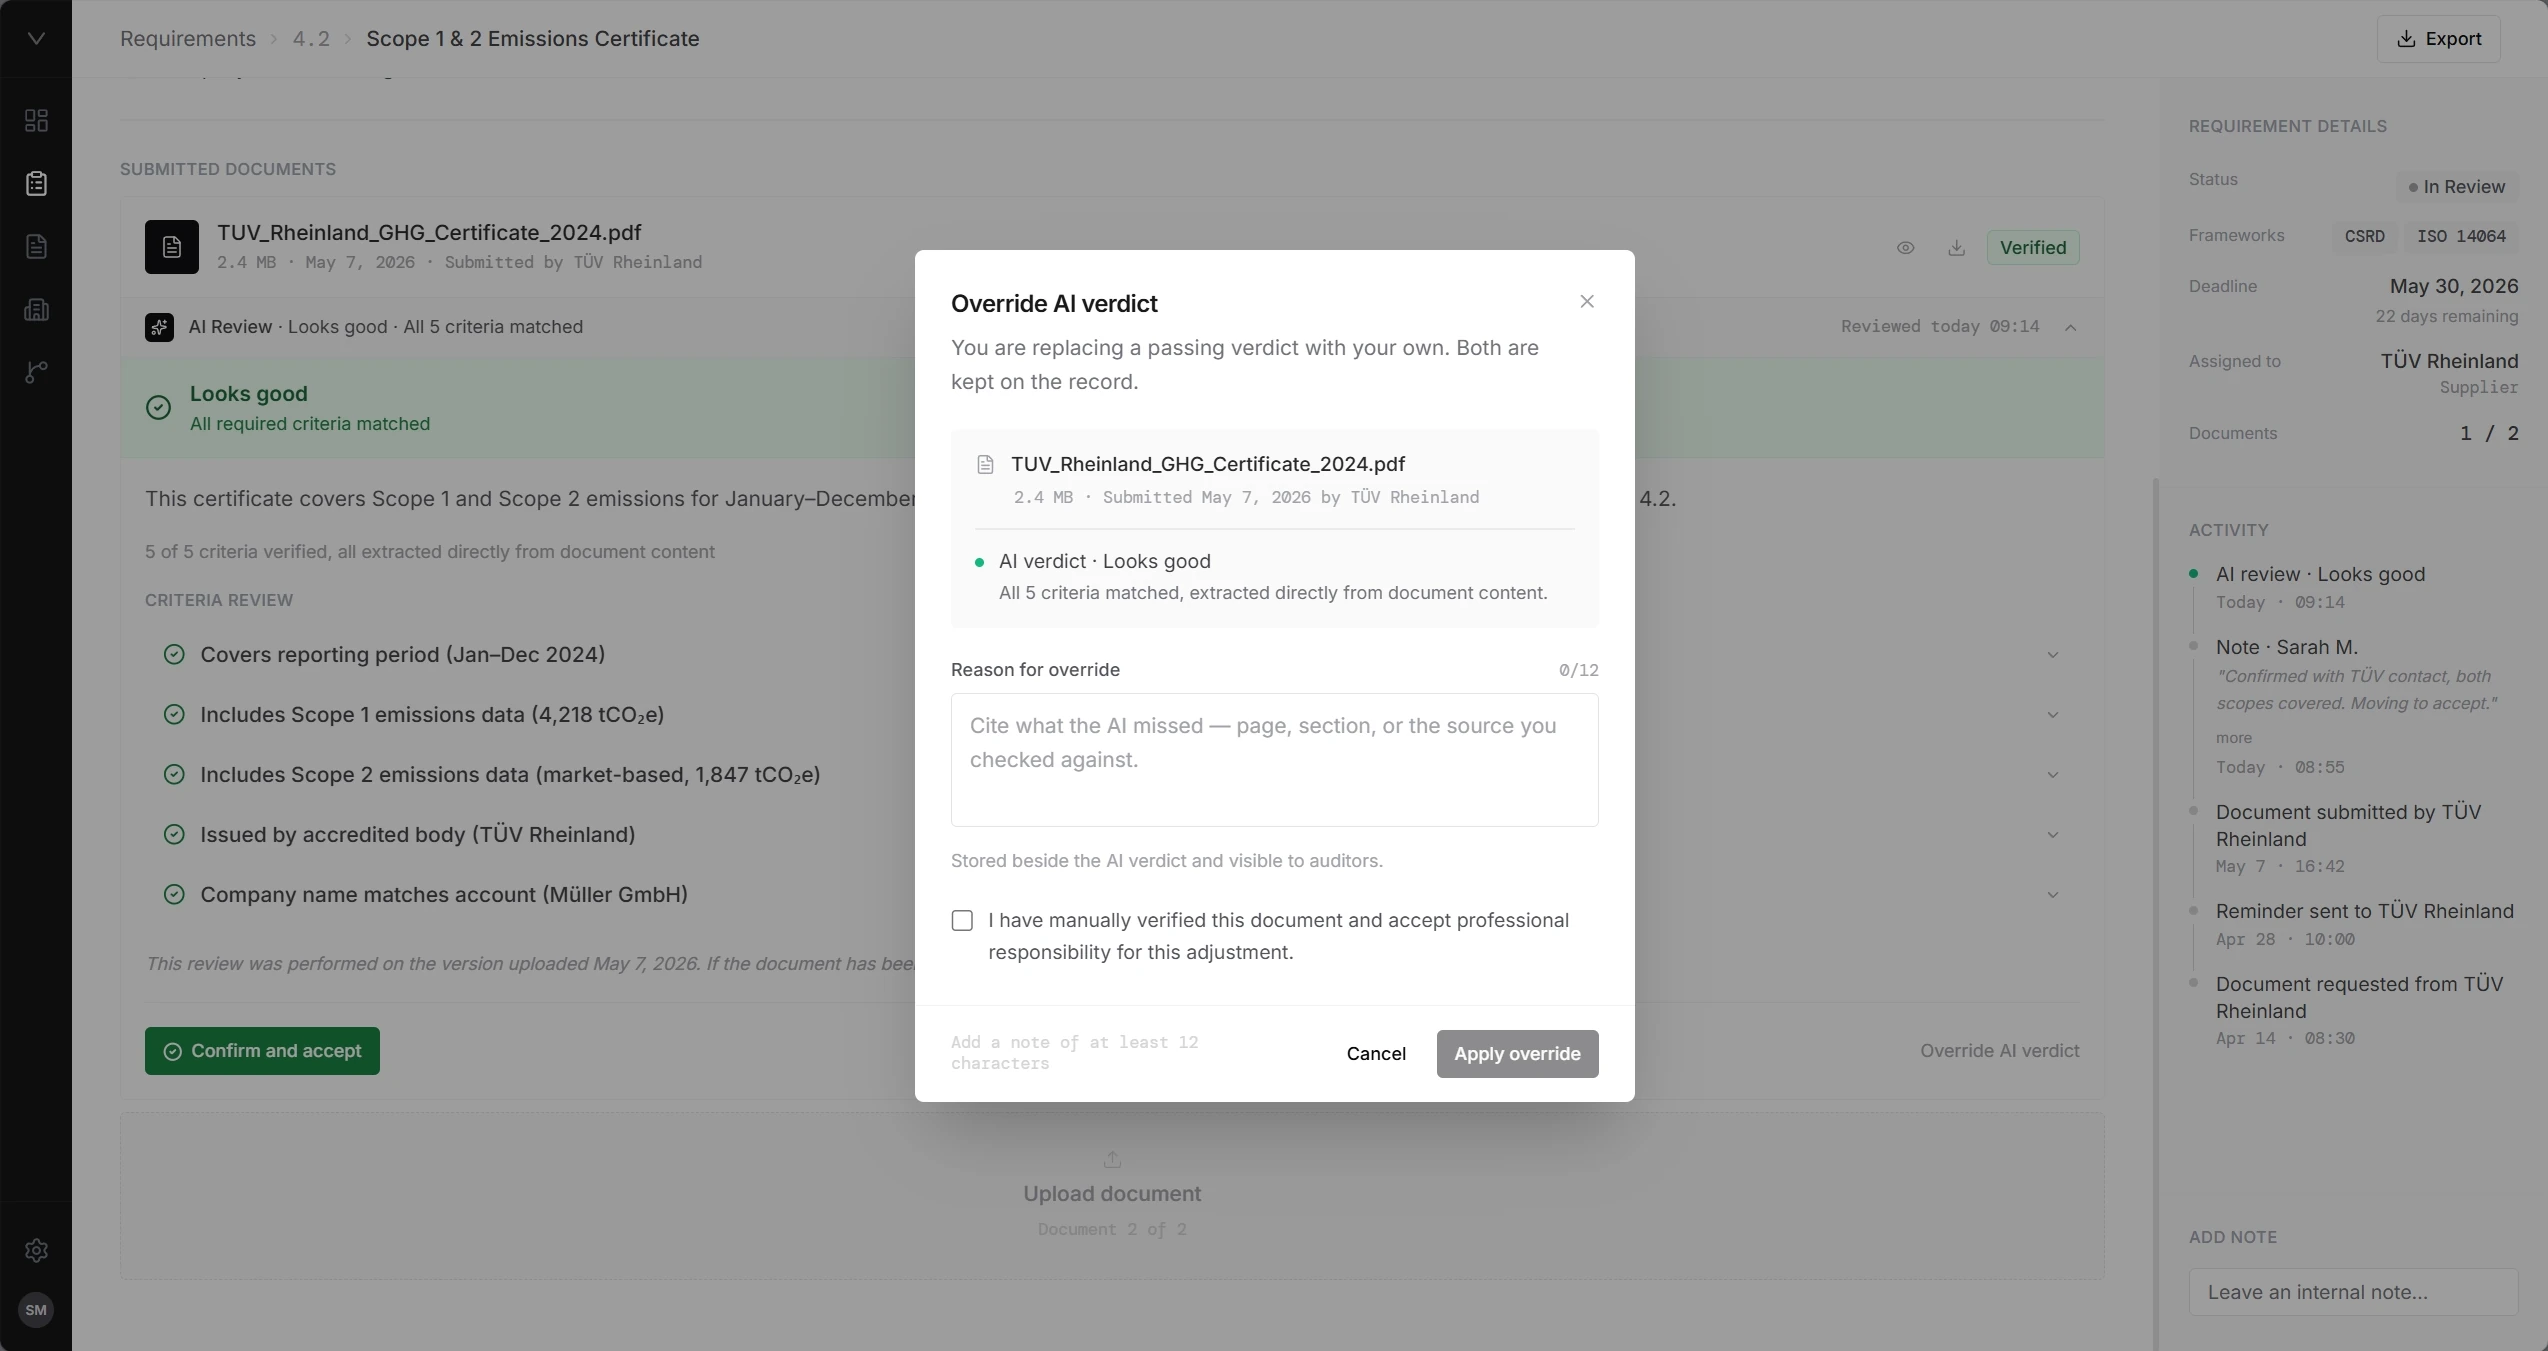
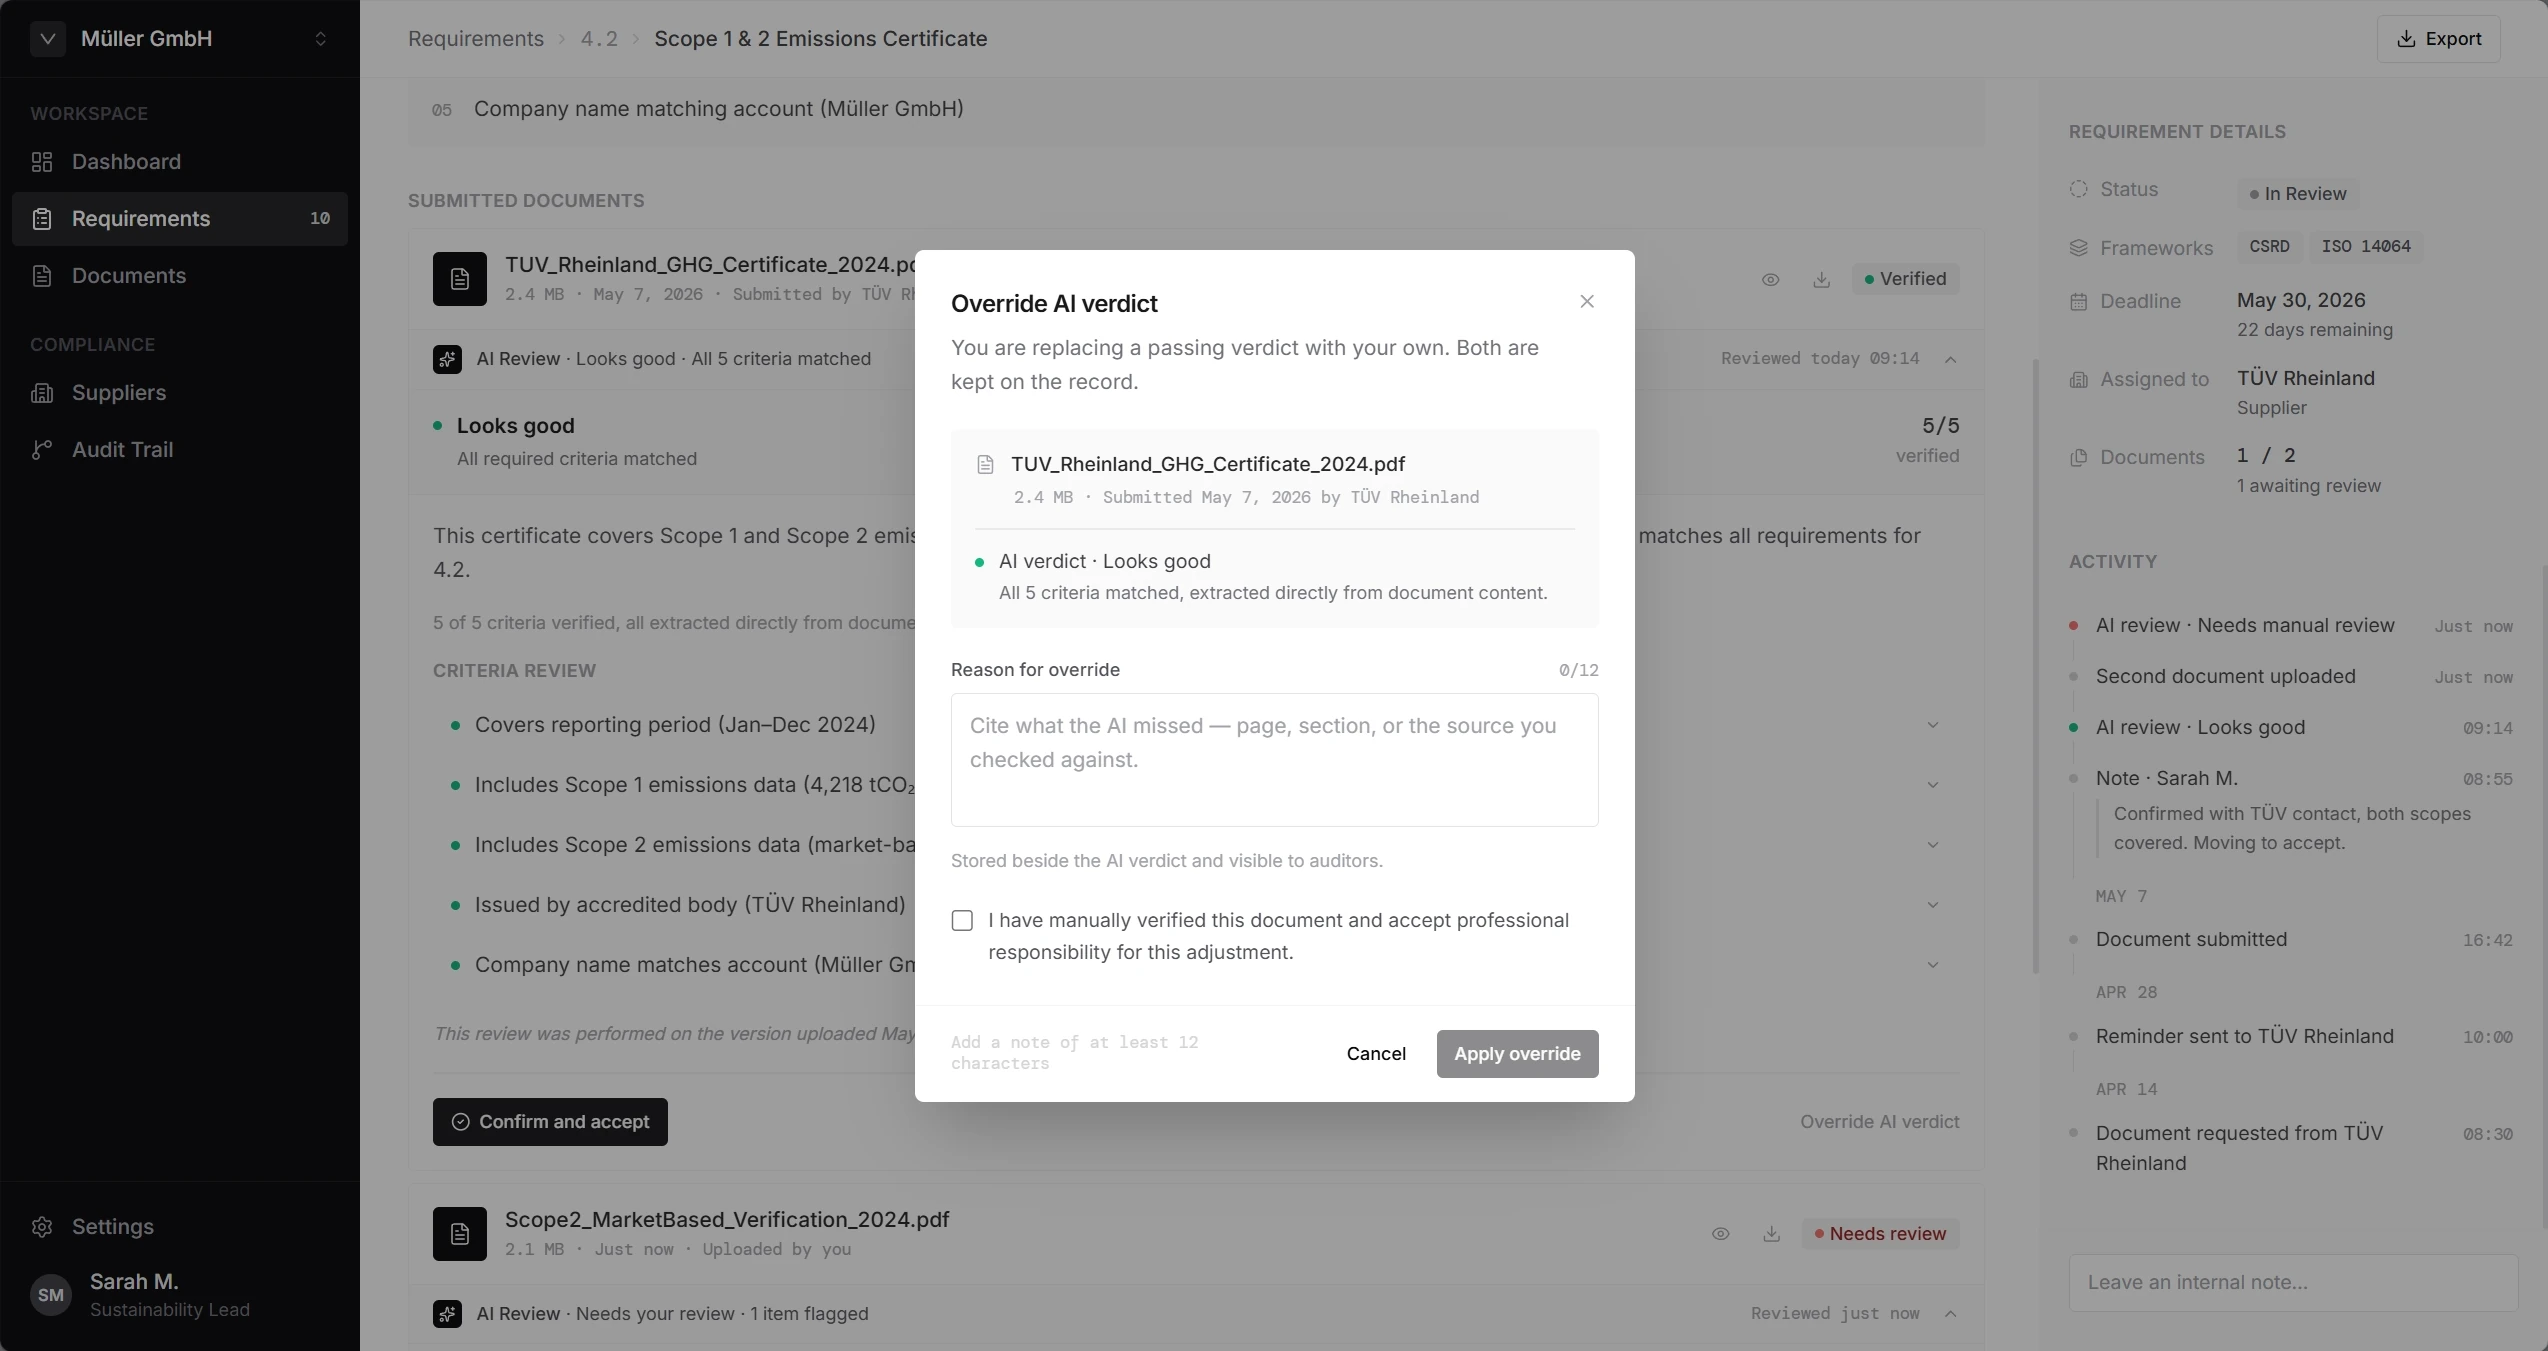
Update the Verity shots to the redesigned app
The new captures include the sidebar and workspace chrome the old ones
were cropped out of, so three cards move over: the requirements
dashboard (04), the upload-to-verdict recording (06), and the certify
modal (08). The Verity hover preview on the landing page shows the same
dashboard, so it moves with them.

Also in, not yet placed: the override modal and the requirement detail
page. Cards 05 and 07 are untouched — no redrawn equivalent was
supplied for the expanded-criteria view or the needs-review state, so
they still show the old design.

Stills encoded to webp at full resolution, 574-841KB down to 96-144KB.
The recording is left as a gif at 7.2MB, matching the 6.4MB one it
replaces.

Claude-Session: https://claude.ai/code/session_012ZnzsUEouovaT8nMBBJt4i

diff --git a/index.html b/index.html
@@ -746,7 +746,7 @@ if (!location.hash) document.documentElement.classList.add('is-arriving');
 <nav id="site-nav"><a class="mark" href="./"><span>pixeland</span><span>prompt</span></a><div class="menu"><a href="#intro" data-scene="intro" aria-current="page">About</a><a href="#projects" data-scene="projects">Work</a><a href="#contact" data-scene="contact">Say hi</a></div><div class="availability"><span class="role">Designer<span class="lap-off" aria-hidden="true"> ·</span><br class="lap-only" aria-hidden="true"> Builder</span><span class="role">in Berlin</span></div></nav>
 <main><i class="snap" id="snap-1" aria-hidden="true"></i><i class="snap" id="snap-2" aria-hidden="true"></i><i class="snap" id="snap-3" aria-hidden="true"></i><section class="stage"><canvas class="pixfield" id="pixfield" aria-hidden="true"></canvas><span class="stage-note" id="stage-note" aria-hidden="true"></span><div class="frame" aria-hidden="true"><svg><rect width="100%" height="100%" rx="15"/><path/></svg></div>
 <section class="scene intro" id="intro"><h1 class="statement"><span class="line"><span class="line-in">I design <em>clear</em> software</span></span><span class="line"><span class="line-in">for people doing</span></span><span class="line"><span class="line-in">complicated work.</span></span></h1><canvas class="pixtype" id="pixtype" aria-hidden="true"></canvas><canvas class="pixtype pixtype-over" id="pixtype-over" aria-hidden="true"></canvas><span class="pixmark" aria-hidden="true"><i>pixelandprompt</i></span></section>
-<section class="scene projects" id="projects"><span class="work-head-label">Selected work</span><ol class="work-index"><li><a class="work-row" href="designsystem.html" data-shot="0"><span class="work-title">No Handoff</span><span class="work-tags"><i>Design system</i><i>Shipped</i></span><span class="work-line">Figma and Vue from one source of truth.</span></a></li><li><a class="work-row" href="studio.html" data-shot="1"><span class="work-title">Studio, rebuilt</span><span class="work-tags"><i>Product redesign</i><i>In progress</i></span><span class="work-line">A dated surface, rebuilt around real work.</span></a></li><li><a class="work-row" href="verity.html" data-shot="2"><span class="work-title">Verity</span><span class="work-tags"><i>AI trust UX</i><i>Concept</i></span><span class="work-line">A system that is sometimes wrong, made safe to act on.</span></a></li><li><a class="work-row" href="globalencounters.html" data-shot="3"><span class="work-title">Global Encounters</span><span class="work-tags"><i>Application platform</i><i>Case study</i></span><span class="work-line">Bureaucratic intake, made worth belonging to.</span></a></li></ol><figure class="work-figure" id="work-figure" aria-hidden="true"><img src="projects/design-system%20v2/styleguide-poster.jpg" alt="" data-shot="0"><img src="projects/Studio%20V2/new-glimpse.webp" alt="" data-shot="1"><img src="projects/case%20study%20materials/dashboard.png" alt="" data-shot="2"><img src="projects/global%20encounter/newdashboard.webp" alt="" data-shot="3"></figure></section>
+<section class="scene projects" id="projects"><span class="work-head-label">Selected work</span><ol class="work-index"><li><a class="work-row" href="designsystem.html" data-shot="0"><span class="work-title">No Handoff</span><span class="work-tags"><i>Design system</i><i>Shipped</i></span><span class="work-line">Figma and Vue from one source of truth.</span></a></li><li><a class="work-row" href="studio.html" data-shot="1"><span class="work-title">Studio, rebuilt</span><span class="work-tags"><i>Product redesign</i><i>In progress</i></span><span class="work-line">A dated surface, rebuilt around real work.</span></a></li><li><a class="work-row" href="verity.html" data-shot="2"><span class="work-title">Verity</span><span class="work-tags"><i>AI trust UX</i><i>Concept</i></span><span class="work-line">A system that is sometimes wrong, made safe to act on.</span></a></li><li><a class="work-row" href="globalencounters.html" data-shot="3"><span class="work-title">Global Encounters</span><span class="work-tags"><i>Application platform</i><i>Case study</i></span><span class="work-line">Bureaucratic intake, made worth belonging to.</span></a></li></ol><figure class="work-figure" id="work-figure" aria-hidden="true"><img src="projects/design-system%20v2/styleguide-poster.jpg" alt="" data-shot="0"><img src="projects/Studio%20V2/new-glimpse.webp" alt="" data-shot="1"><img src="projects/case%20study%20materials/requirements%20dashboard.webp" alt="" data-shot="2"><img src="projects/global%20encounter/newdashboard.webp" alt="" data-shot="3"></figure></section>
 <section class="scene contact" id="contact"><p class="approach">I prototype fast, test with real behavior, and ship with AI-assisted workflows, from research through production design systems.</p><div class="contact-foot"><h2 class="contact-title"><span>Let's make</span><span>something</span><span><em class="cycle"><span class="cycle-word" id="cycle" aria-hidden="true">worth maintaining</span><span class="vh">worth maintaining</span></em></span></h2><div class="contact-list"><div class="contact-row"><button class="contact-row-value" type="button" data-copy="azadielshan@gmail.com" aria-label="Copy email address">Email<span class="contact-row-icon" aria-hidden="true"><svg class="icon-copy" viewBox="0 0 24 24"><rect x="8" y="2" width="8" height="4" rx="1" ry="1"/><path d="M16 4h2a2 2 0 0 1 2 2v14a2 2 0 0 1-2 2H6a2 2 0 0 1-2-2V6a2 2 0 0 1 2-2h2"/></svg><svg class="icon-check" viewBox="0 0 16 16"><path d="M2.5 8.5 L6.5 12.5 L13.5 3.5"/></svg></span></button></div><div class="contact-row contact-row--end"><a class="contact-row-value contact-row-value--link" href="https://www.linkedin.com/in/Elshan-Azadi" target="_blank" rel="noopener">LinkedIn<span class="contact-row-icon" aria-hidden="true"><svg viewBox="0 0 16 16"><path d="M4.5 11.5 L11.5 4.5"/><path d="M5.5 4.5 H11.5 V10.5"/></svg></span></a></div></div></div></section></section></main>
 <script>
 /* ── The scroll reader ─────────────────────────────────────────────────────

diff --git a/verity.html b/verity.html
@@ -818,7 +818,7 @@
       <div class="card-body">
         <figure class="shot">
           <div class="shot-frame">
-            <img src="projects/case%20study%20materials/dashboard.png" alt="Requirements dashboard listing requirements with status, due date and assigned owner" loading="lazy">
+            <img src="projects/case%20study%20materials/requirements%20dashboard.webp" alt="Requirements dashboard: total, in review, need action and fulfilled counts above a table of requirements with status, documents, due date and assigned owner" loading="lazy">
           </div>
           <figcaption class="shot-cap">Requirements dashboard · status · owner · due date</figcaption>
         </figure>
@@ -852,9 +852,9 @@
       <div class="card-body">
         <figure class="shot">
           <div class="shot-frame">
-            <img src="projects/case%20study%20materials/live%20analysis.gif" alt="The AI working through criteria in sequence, extracted text appearing for each, ending in an amber flag on the methodology criterion" loading="lazy">
+            <img src="projects/case%20study%20materials/upload%20and%20review.gif" alt="A document uploaded, then the AI working through the criteria in sequence with the extracted text and page reference appearing for each, ending on the methodology criterion flagged for review" loading="lazy">
           </div>
-          <figcaption class="shot-cap">Live analysis · criteria resolve in sequence · methodology flags amber</figcaption>
+          <figcaption class="shot-cap">Upload to verdict · criteria resolve in sequence · methodology flagged for review</figcaption>
         </figure>
       </div>
     </section>
@@ -886,7 +886,7 @@
       <div class="card-body">
         <figure class="shot">
           <div class="shot-frame">
-            <img src="projects/case%20study%20materials/manual%20approval.webp" alt="Certify manual approval modal: the unverified criterion named inside the document it came from, a required verification note, and a checkbox authorising approval on the company's behalf" loading="lazy">
+            <img src="projects/case%20study%20materials/certify%20manual%20approval.webp" alt="Certify manual approval modal: the unverified criterion named inside the document it came from, a required verification note, and a checkbox authorising approval on the company's behalf" loading="lazy">
           </div>
           <figcaption class="shot-cap">Certify manual approval · reason required · both layers kept</figcaption>
         </figure>
